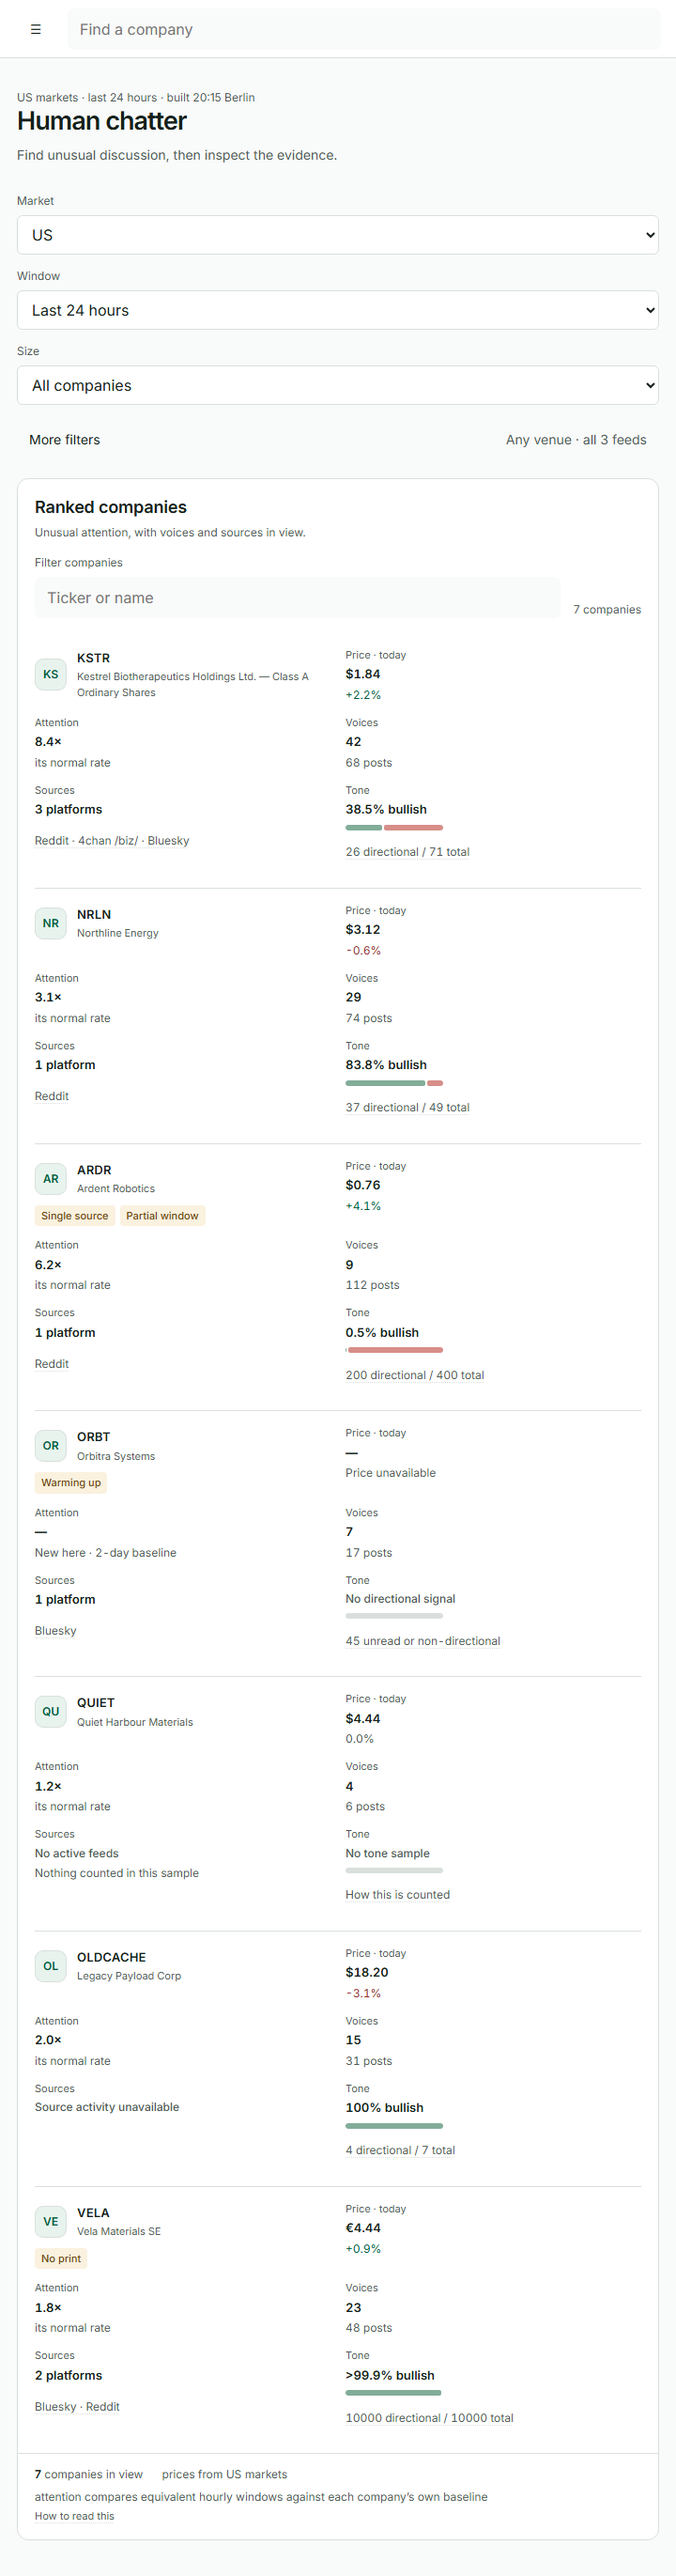
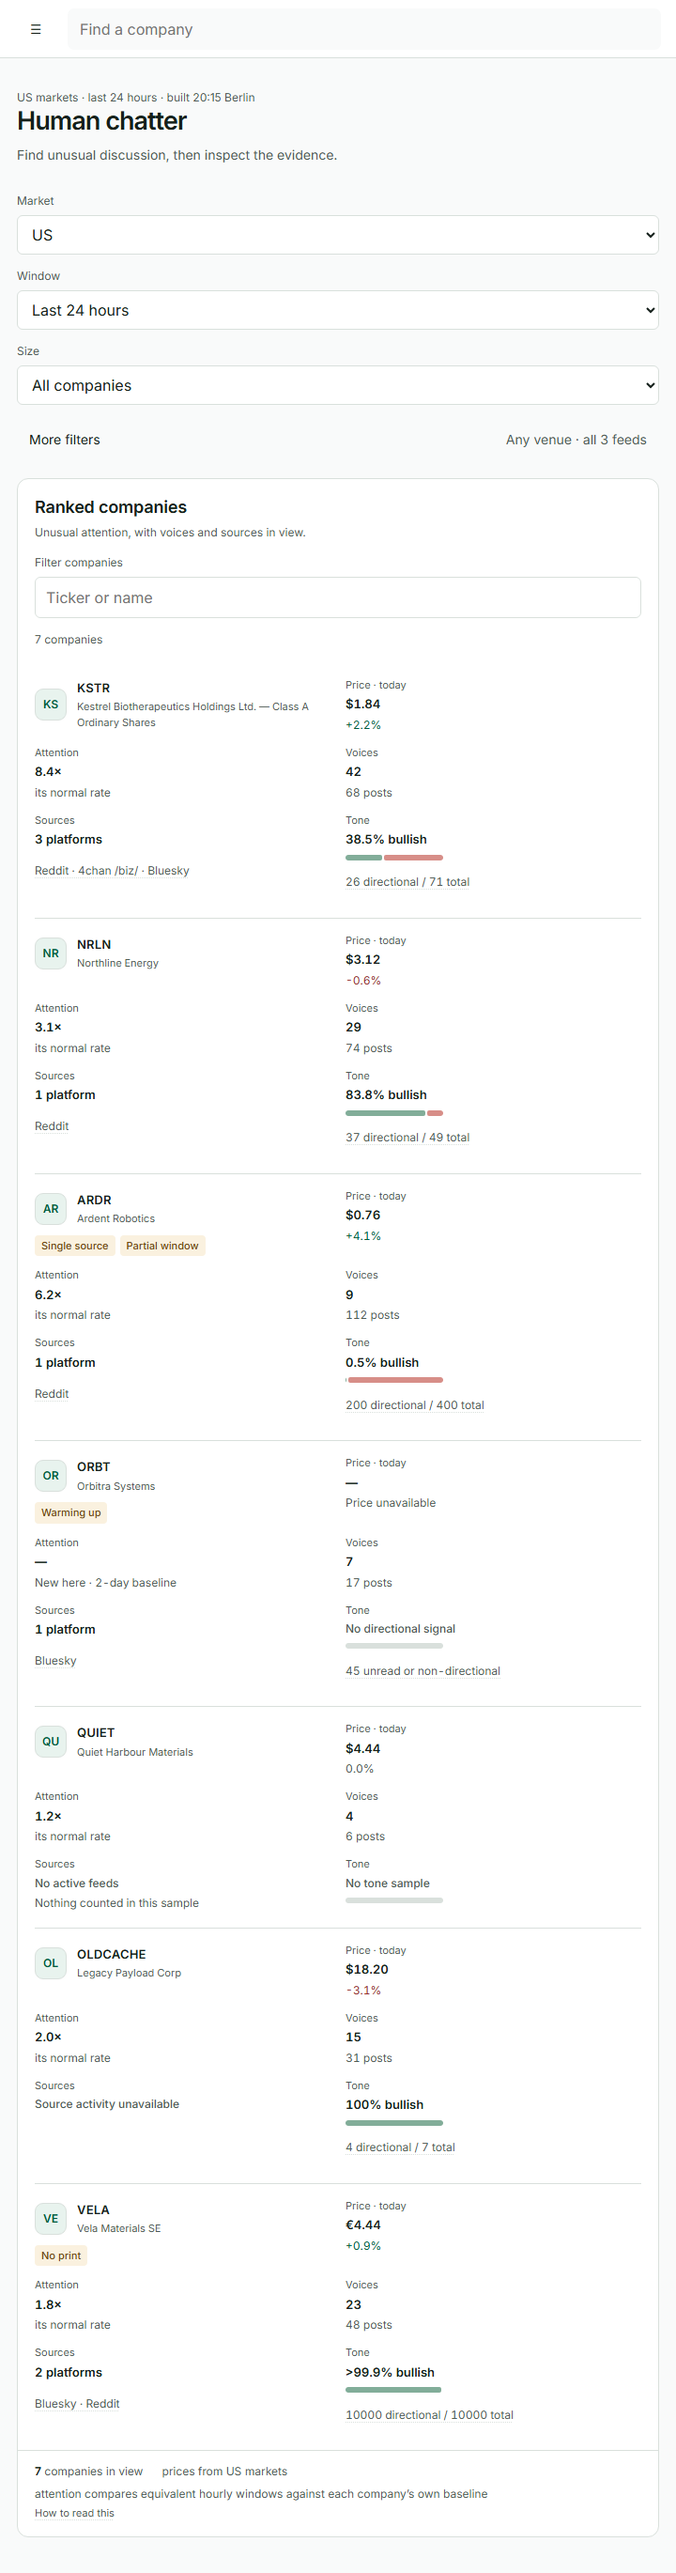
fix(radar): the panel's company filter had taken the topbar search's class
`.rh-search` already belonged to the global search field in the topbar
(Search.tsx). The new "Filter companies" box inside the table panel reused it,
so it inherited the topbar's styling and the two were indistinguishable to any
selector.

Found by a screenshot, not by a test: a capture script typed into
`.rh-search input`, the string landed in the topbar's global search, the
suggestion popover opened over the page heading, and the table underneath was
completely unfiltered. Every hub test still passed, because none of them
addresses either field by class.

Renamed to `.rh-tablefilter`, and the 16px mobile input-size rule split so it
applies to each independently.

Also captures the three remaining Chatter states the contract lists: no search
match, a failed refresh, and first paint. A failed refresh keeps all seven
embedded rows on screen rather than blanking, which is the behaviour the stale
response protection exists for.

diff --git a/personal_apps/static/radar/src/hub/hub.css b/personal_apps/static/radar/src/hub/hub.css
@@ -535,7 +535,11 @@
   margin-left: auto;
 }
 .rh-panelcount { white-space: nowrap; padding-bottom: 10px; }
-.rh-search input { min-width: 200px; }
+/* Not `.rh-search` -- that class is the topbar's global search, and
+   sharing it made this box inherit the topbar's styling and, worse,
+   made a test that typed into `.rh-search input` type into the wrong
+   field entirely. */
+.rh-tablefilter input { min-width: 200px; }
 .rh-panelempty { padding: 4px 23px 0; }
 
 /* The column proportions come from the colgroup; `fixed` is what makes the
@@ -1263,7 +1267,8 @@
   .rh-field { width: 100%; }
   .rh-filters-note { margin-left: 0; }
   .rh-search { max-width: none; }
-  .rh-search input { font-size: 16px; min-width: 0; }
+  .rh-search input { font-size: 16px; }
+  .rh-tablefilter input { font-size: 16px; min-width: 0; }
   .rh-panelhead { padding: 18px 18px 0; gap: 14px; }
   .rh-panelheadtools { margin-left: 0; width: 100%; flex-wrap: wrap; }
   .rh-panelcount { padding-bottom: 0; }

diff --git a/personal_apps/static/radar/src/hub/Chatter.tsx b/personal_apps/static/radar/src/hub/Chatter.tsx
@@ -105,7 +105,7 @@ function Panel({ board, rows, filter, onFilter, onOpen }: {
           </p>
         </div>
         <div className="rh-panelheadtools">
-          <label className="rh-field rh-search">
+          <label className="rh-field rh-tablefilter">
             <span>Filter companies</span>
             <input
               type="search"

diff --git a/personal_apps/scratchpad/vc1_states.py b/personal_apps/scratchpad/vc1_states.py
@@ -1,0 +1,63 @@
+"""The three remaining Chatter states the contract lists: no search match,
+loading, and a failed refresh.
+
+Loading and error are driven by making the board request slow or fail, which
+is what the real page does when the server is slow or down -- not by rendering
+a component in isolation.
+"""
+import pathlib
+import sys
+
+from playwright.sync_api import sync_playwright
+
+OUT = pathlib.Path(sys.argv[1]).resolve()
+BASE = sys.argv[2]
+
+
+def main():
+    OUT.mkdir(parents=True, exist_ok=True)
+    with sync_playwright() as p:
+        browser = p.chromium.launch()
+
+        # No search match: the filter narrows what is already listed, and the
+        # message has to say that rather than "empty board".
+        page = browser.new_page(viewport={'width': 1440, 'height': 1000})
+        page.goto(f'{BASE}/fixture.html#chatter', wait_until='networkidle')
+        page.wait_for_selector('.rh-chatter')
+        page.fill('.rh-tablefilter input', 'zzzzz')
+        page.wait_for_timeout(250)
+        page.screenshot(path=str(OUT / 'state-nomatch-1440.png'), full_page=True)
+        print('nomatch:', page.inner_text('.rh-panelempty').replace('\n', ' '))
+        page.close()
+
+        # A failed refresh. The first board is embedded, so the page renders
+        # and then the refetch fails -- which is the interesting case: the
+        # rows must not vanish because a later request did.
+        context = browser.new_context(viewport={'width': 1440, 'height': 1000})
+        page = context.new_page()
+        page.route('**/radar/api/board*', lambda route: route.abort())
+        page.goto(f'{BASE}/fixture.html#chatter', wait_until='domcontentloaded')
+        page.wait_for_selector('.rh-main')
+        page.wait_for_timeout(1500)
+        page.screenshot(path=str(OUT / 'state-refresh-failed-1440.png'),
+                        full_page=True)
+        has_rows = page.locator('.rh-chatter tbody tr').count()
+        print(f'failed refresh: rows still shown = {has_rows}')
+        context.close()
+
+        # A slow board, caught mid-flight.
+        context = browser.new_context(viewport={'width': 1440, 'height': 1000})
+        page = context.new_page()
+        page.route('**/radar/api/board*',
+                   lambda route: (page.wait_for_timeout(1), route.abort()))
+        page.goto(f'{BASE}/fixture.html#chatter', wait_until='domcontentloaded')
+        page.wait_for_selector('.rh-main')
+        page.screenshot(path=str(OUT / 'state-first-paint-1440.png'),
+                        full_page=True)
+        context.close()
+
+        browser.close()
+
+
+if __name__ == '__main__':
+    main()
